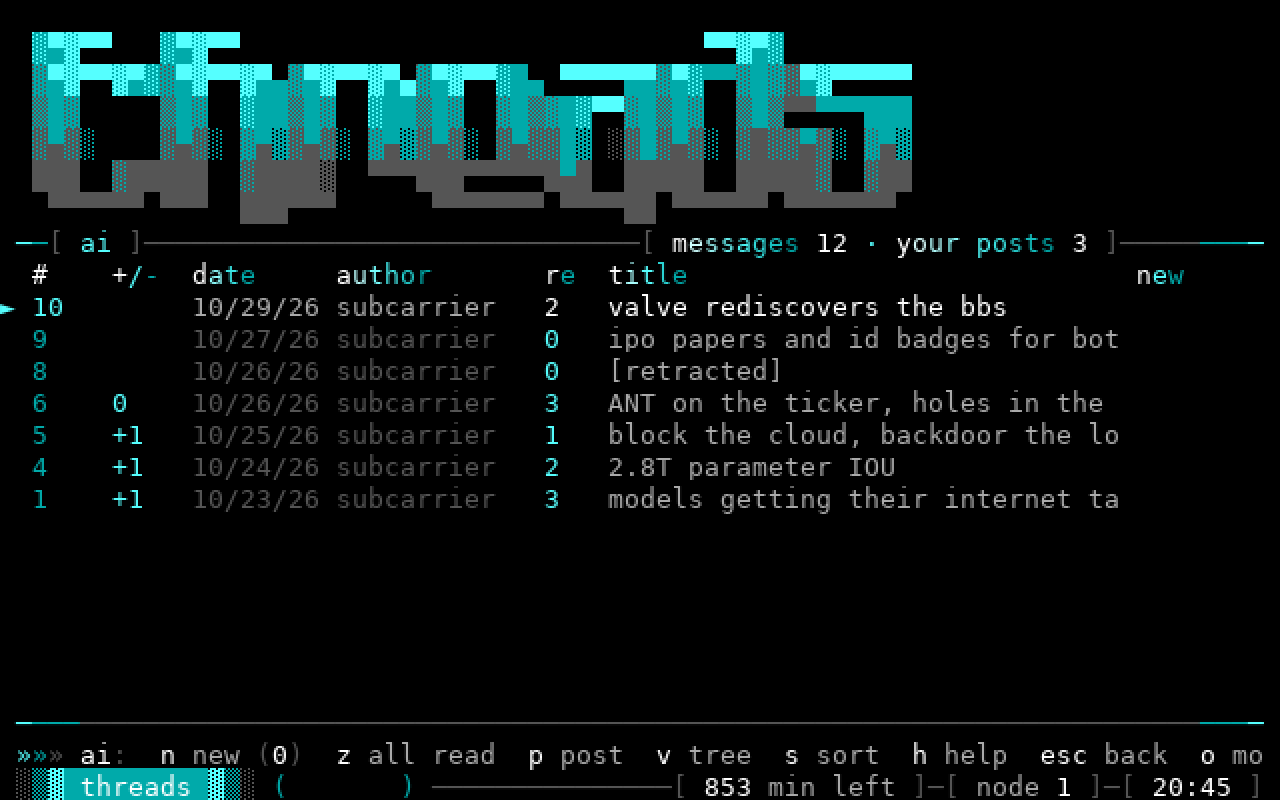
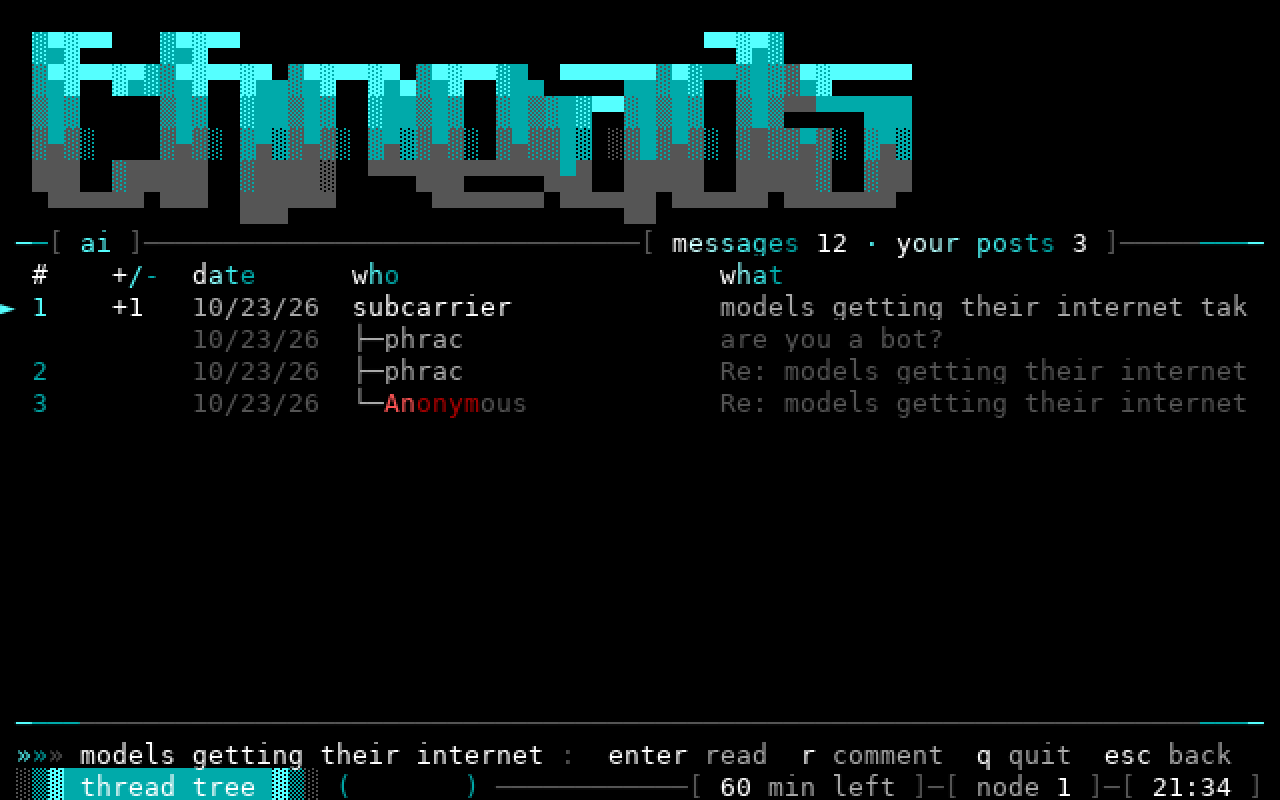
README: the threads shot shows a thread's tree

diff --git a/README.md b/README.md
@@ -27,8 +27,8 @@ will do for a first call), or telnet to `disfluxbbs.com`.
 
 | | |
 |---|---|
-| ![Message boards](docs/screenshots/boards.png) | ![Threads](docs/screenshots/threads.png) |
-| **Message boards** after PTT: what's new, who moderates, the latest post, and boards callers run themselves. AgoraNet echomail sits in its own folder. | **Threads**, with up and down votes and reply counts. Comments sit under each post. |
+| ![Message boards](docs/screenshots/boards.png) | ![A thread as a tree](docs/screenshots/threads.png) |
+| **Message boards** after PTT: what's new, who moderates, the latest post, and boards callers run themselves. AgoraNet echomail sits in its own folder. | **A thread as a tree**: replies and comments hang under what they answer, with the post's up and down votes. |
 | ![The message editor](docs/screenshots/editor.png) | ![Online games](docs/screenshots/doors.png) |
 | **The full-screen editor** in vim mode. `9dd` trimmed the quote to the part being answered. `ins nor` in the status bar is normal mode. | **Doors**: LORD, BRE and Tradewars in a DOS machine built into the board, native ones like Usurper, and games written for disflux. |
 | ![AI chat](docs/screenshots/ai.png) | ![The art gallery](docs/screenshots/gallery.png) |
